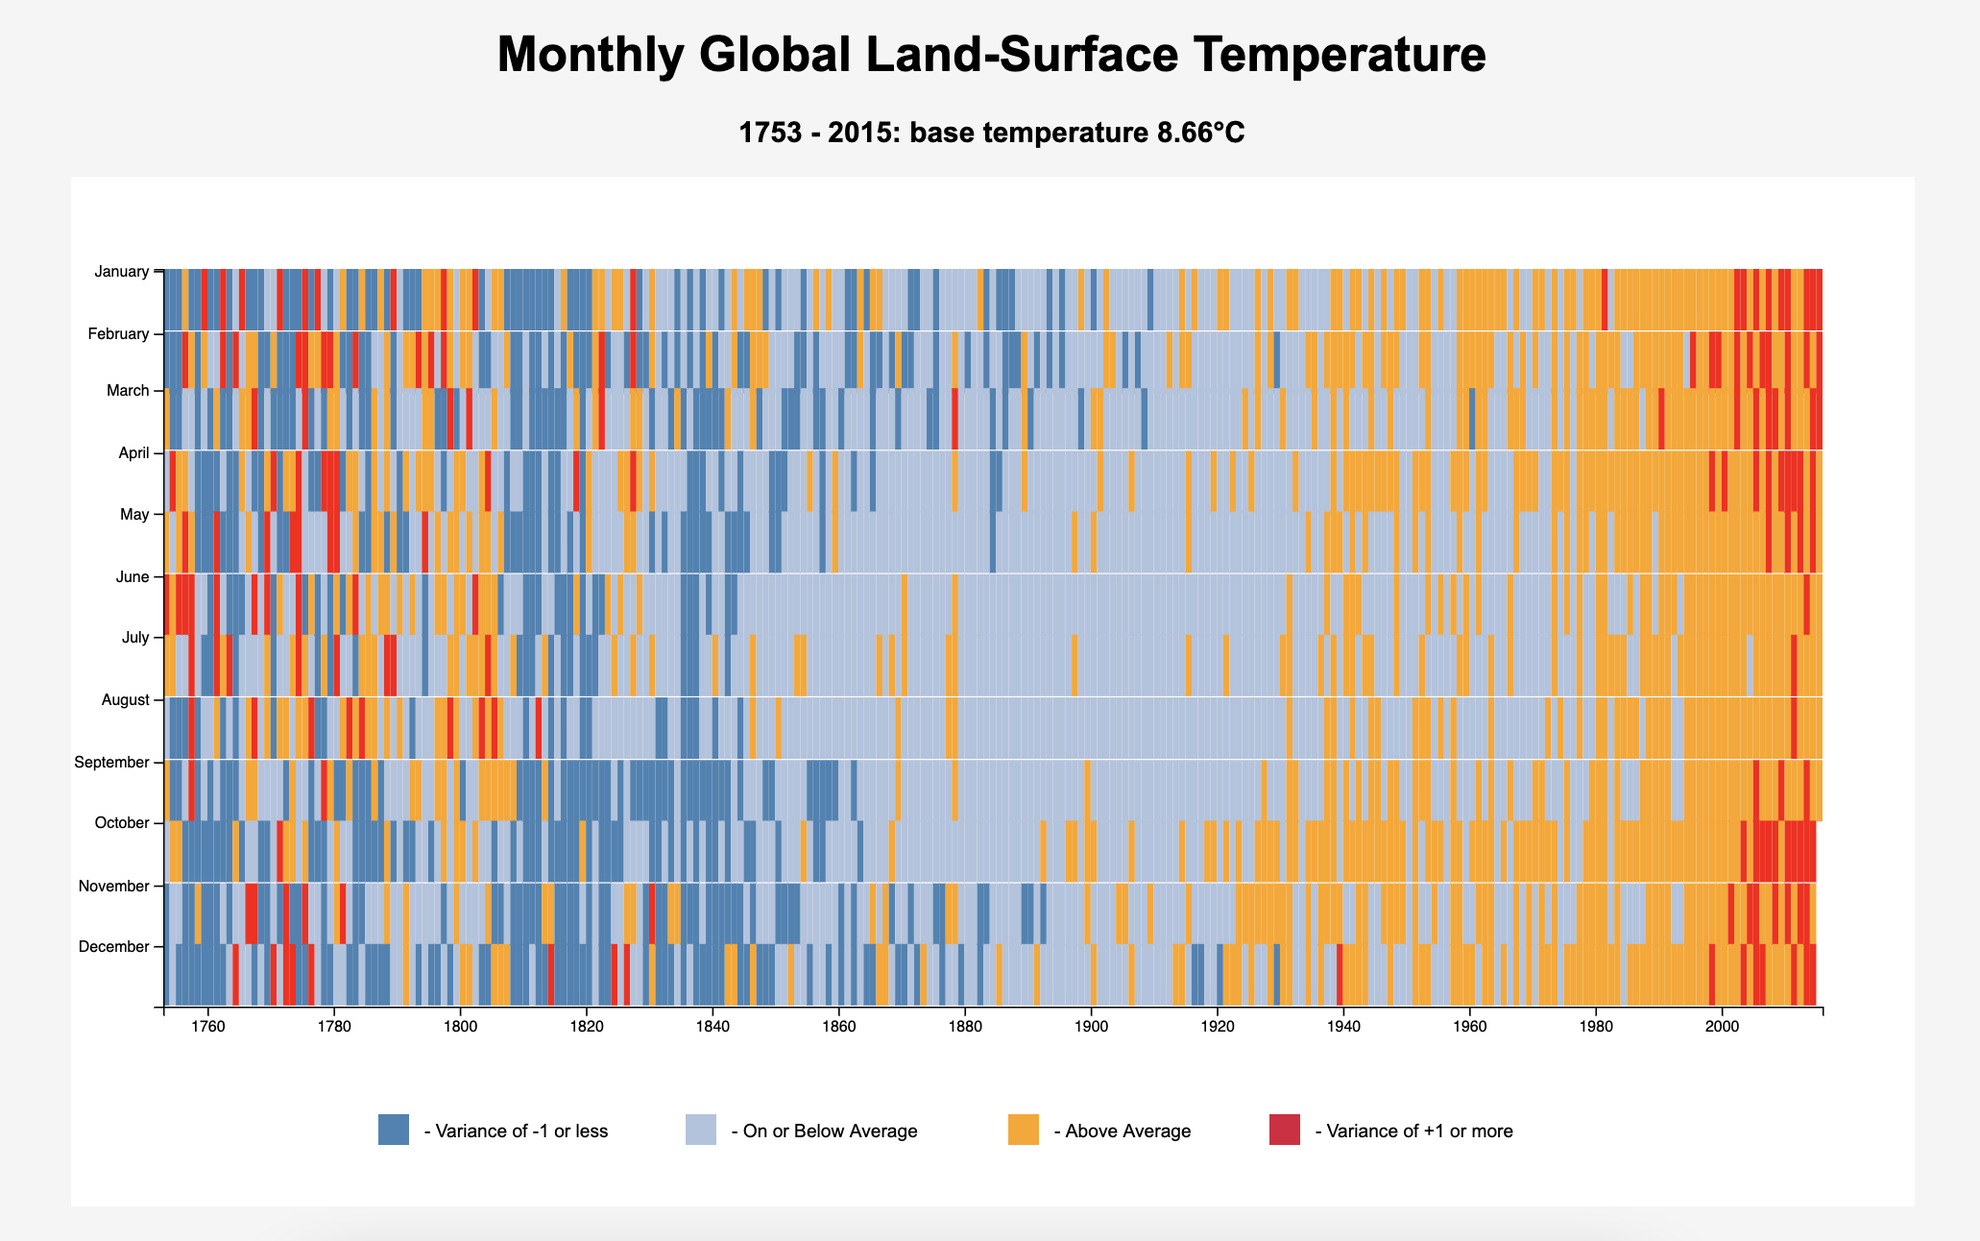
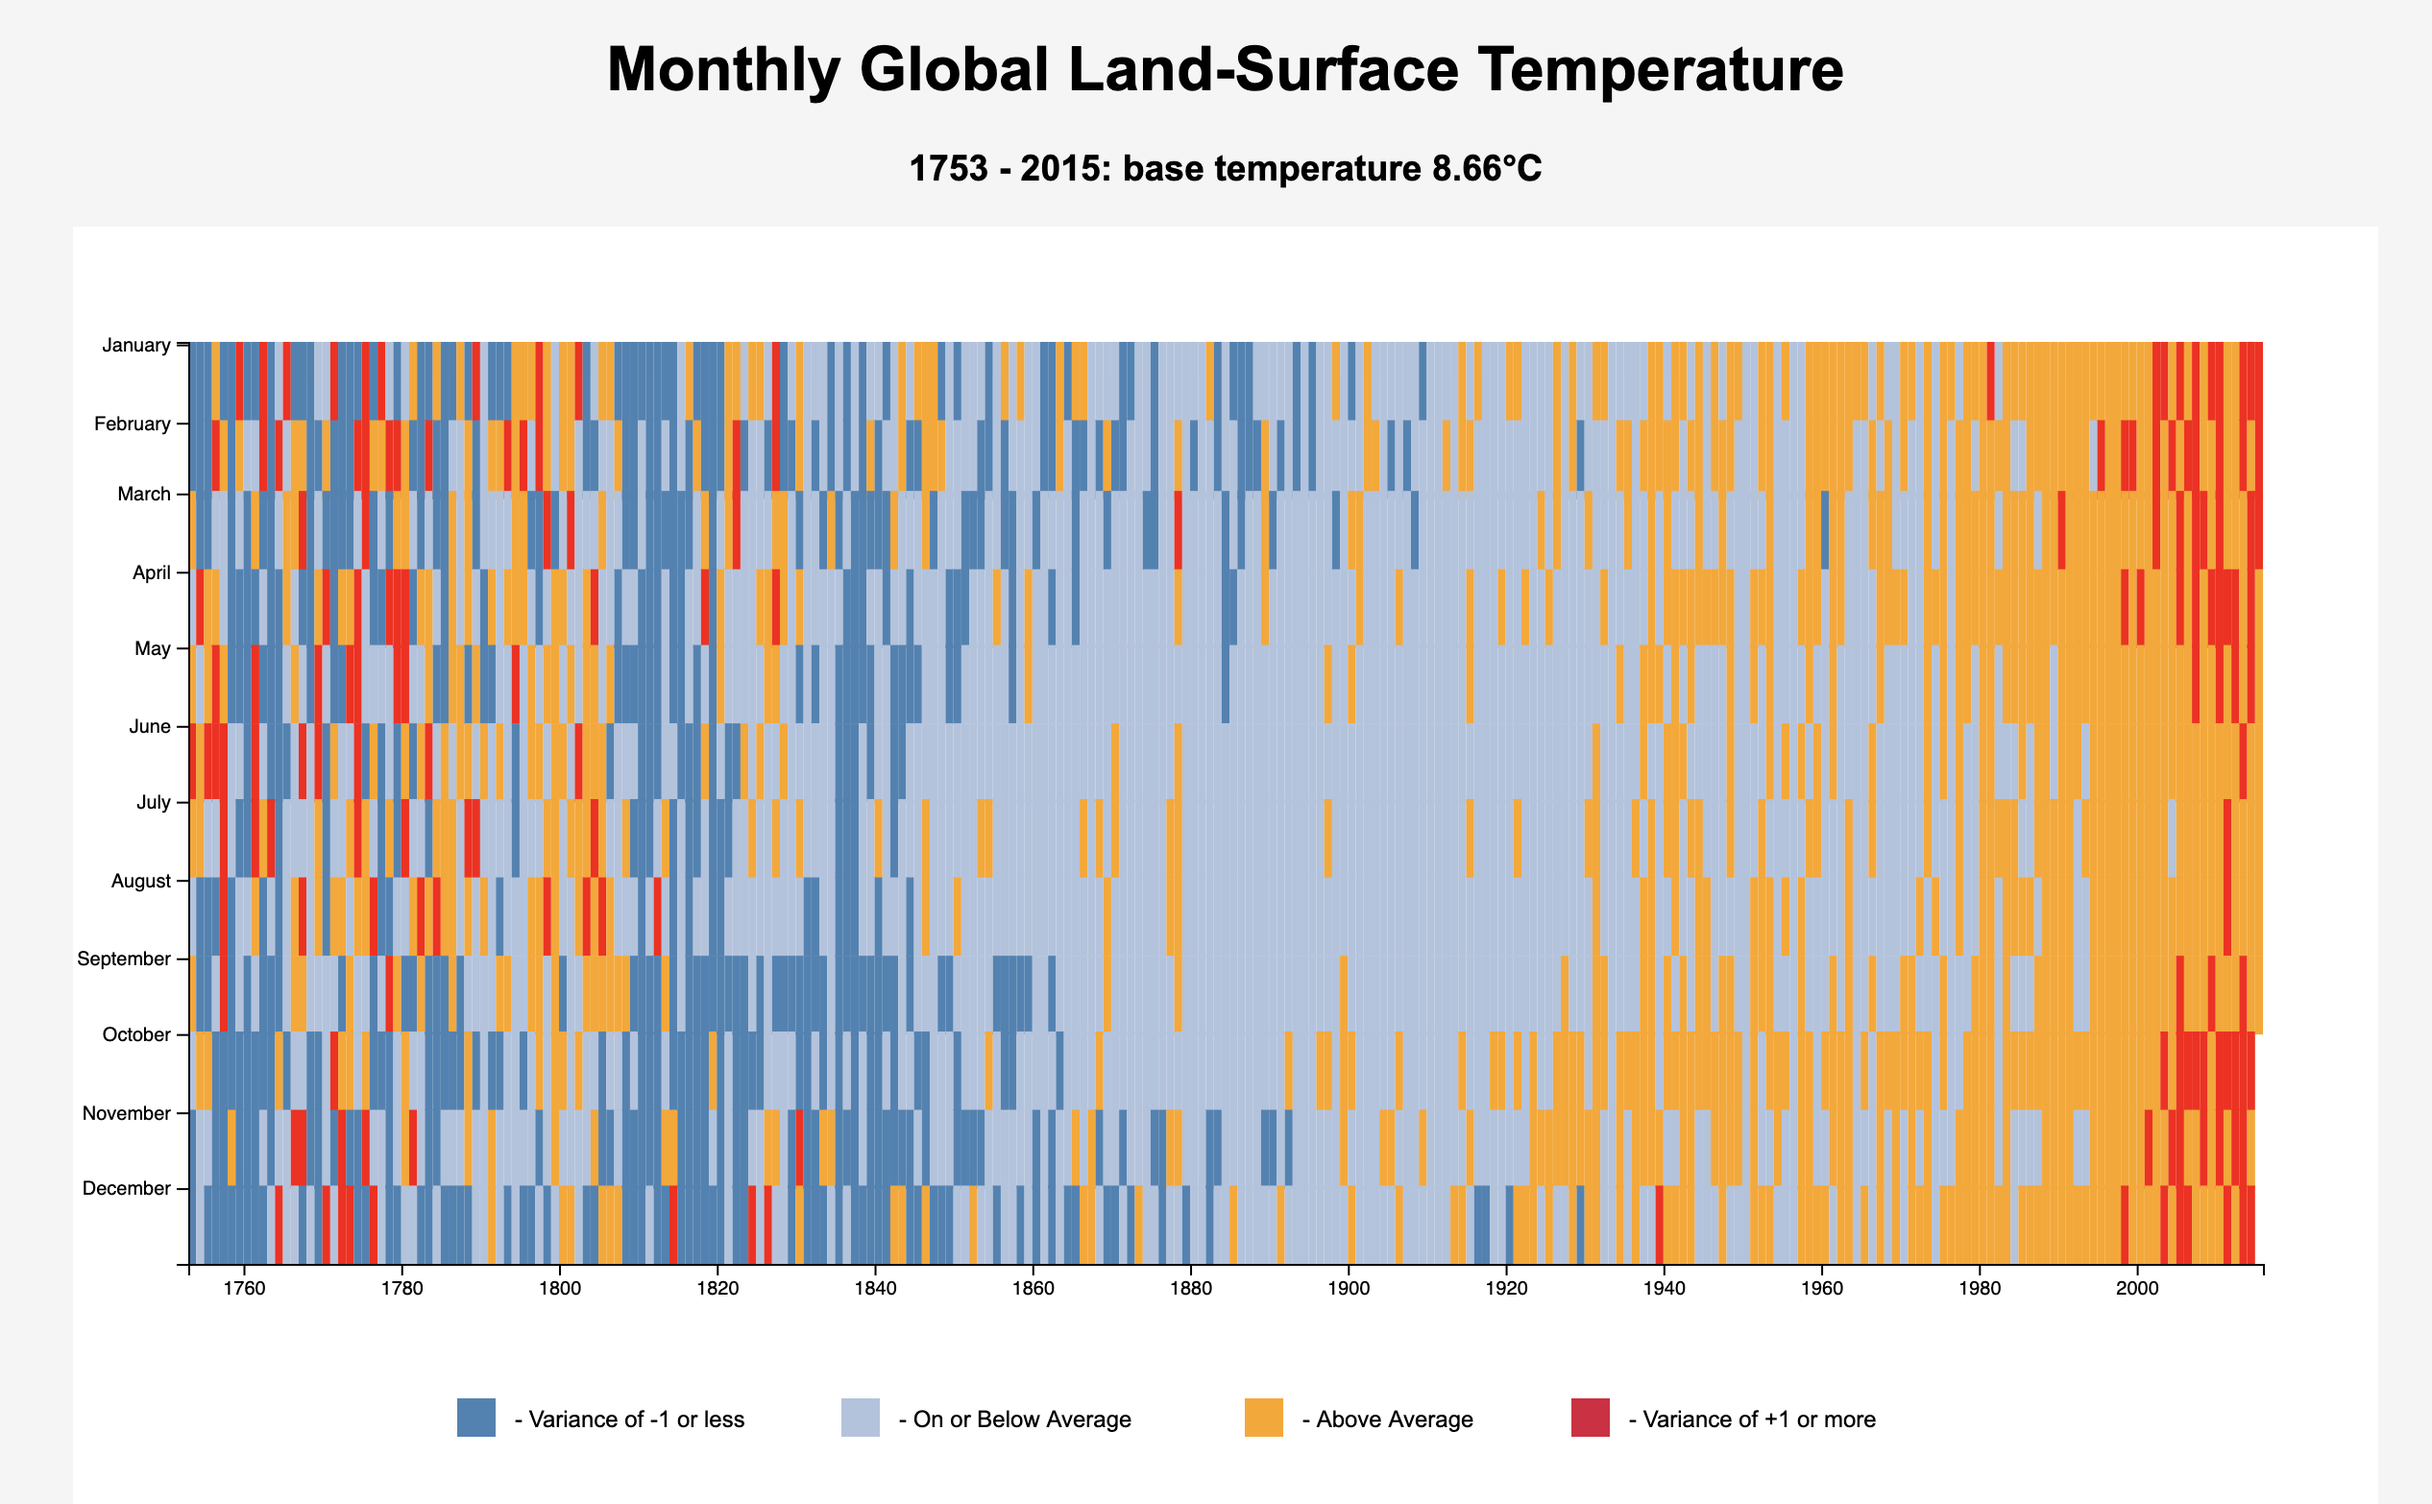
minor adjustemnts to styling

diff --git a/script.js b/script.js
@@ -65,7 +65,7 @@ function drawCells () {
                 return baseTemp + item['variance'];
             })
             // height will be the height - 2x padding and devided into number of cells vertically
-            .attr('height', (height - (2 * padding))/12)
+            .attr('height', (height - (1.8 * padding))/12)
             // take the month from data, convert it into a Date, feed into yScale
             .attr('y', (item) => {
                 return yScale(new Date(0, item['month'] - 1, 0, 0, 0, 0, 0))

diff --git a/README.md b/README.md
@@ -3,4 +3,4 @@ Heatmap: Monthly Global Land-Surface Temperature.
 
 Tech: JavaScript, D3 library.
 
-<img width="600" alt="" src="">
+<img width="600" alt="" src="https://github.com/ProblemSPb/heatmap-js-d3/blob/main/Heatmap_temp.png">
